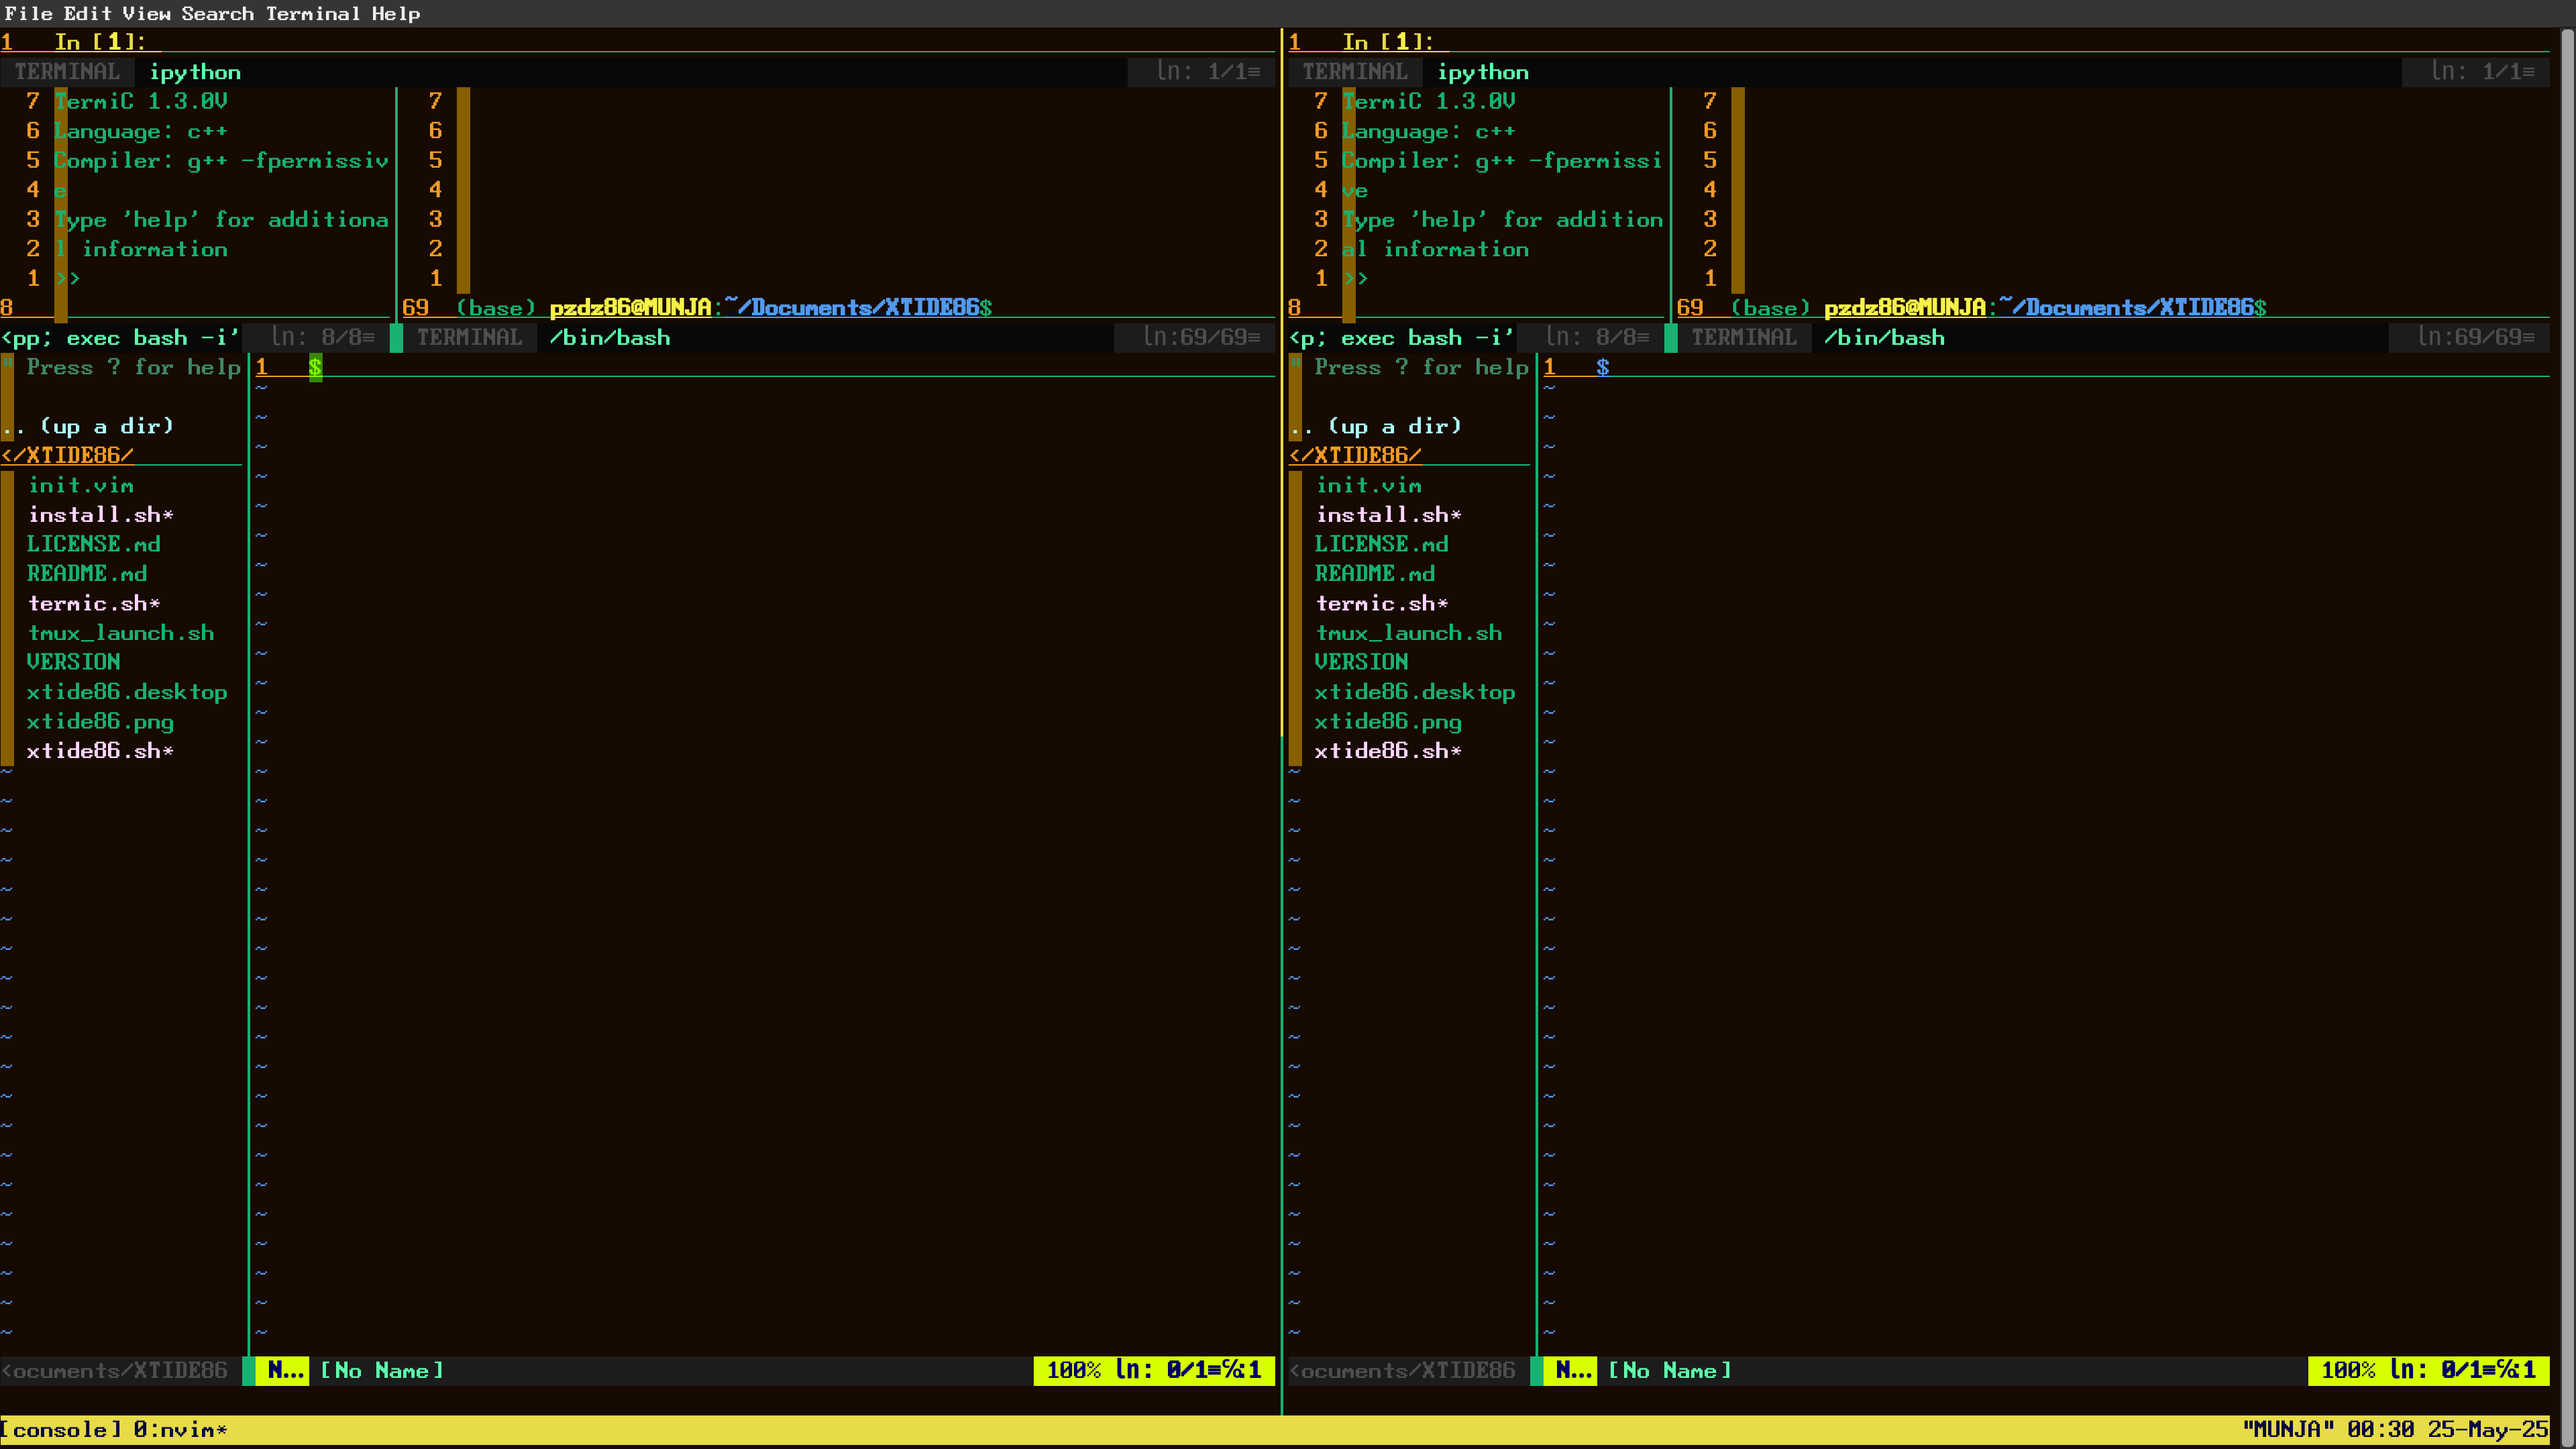
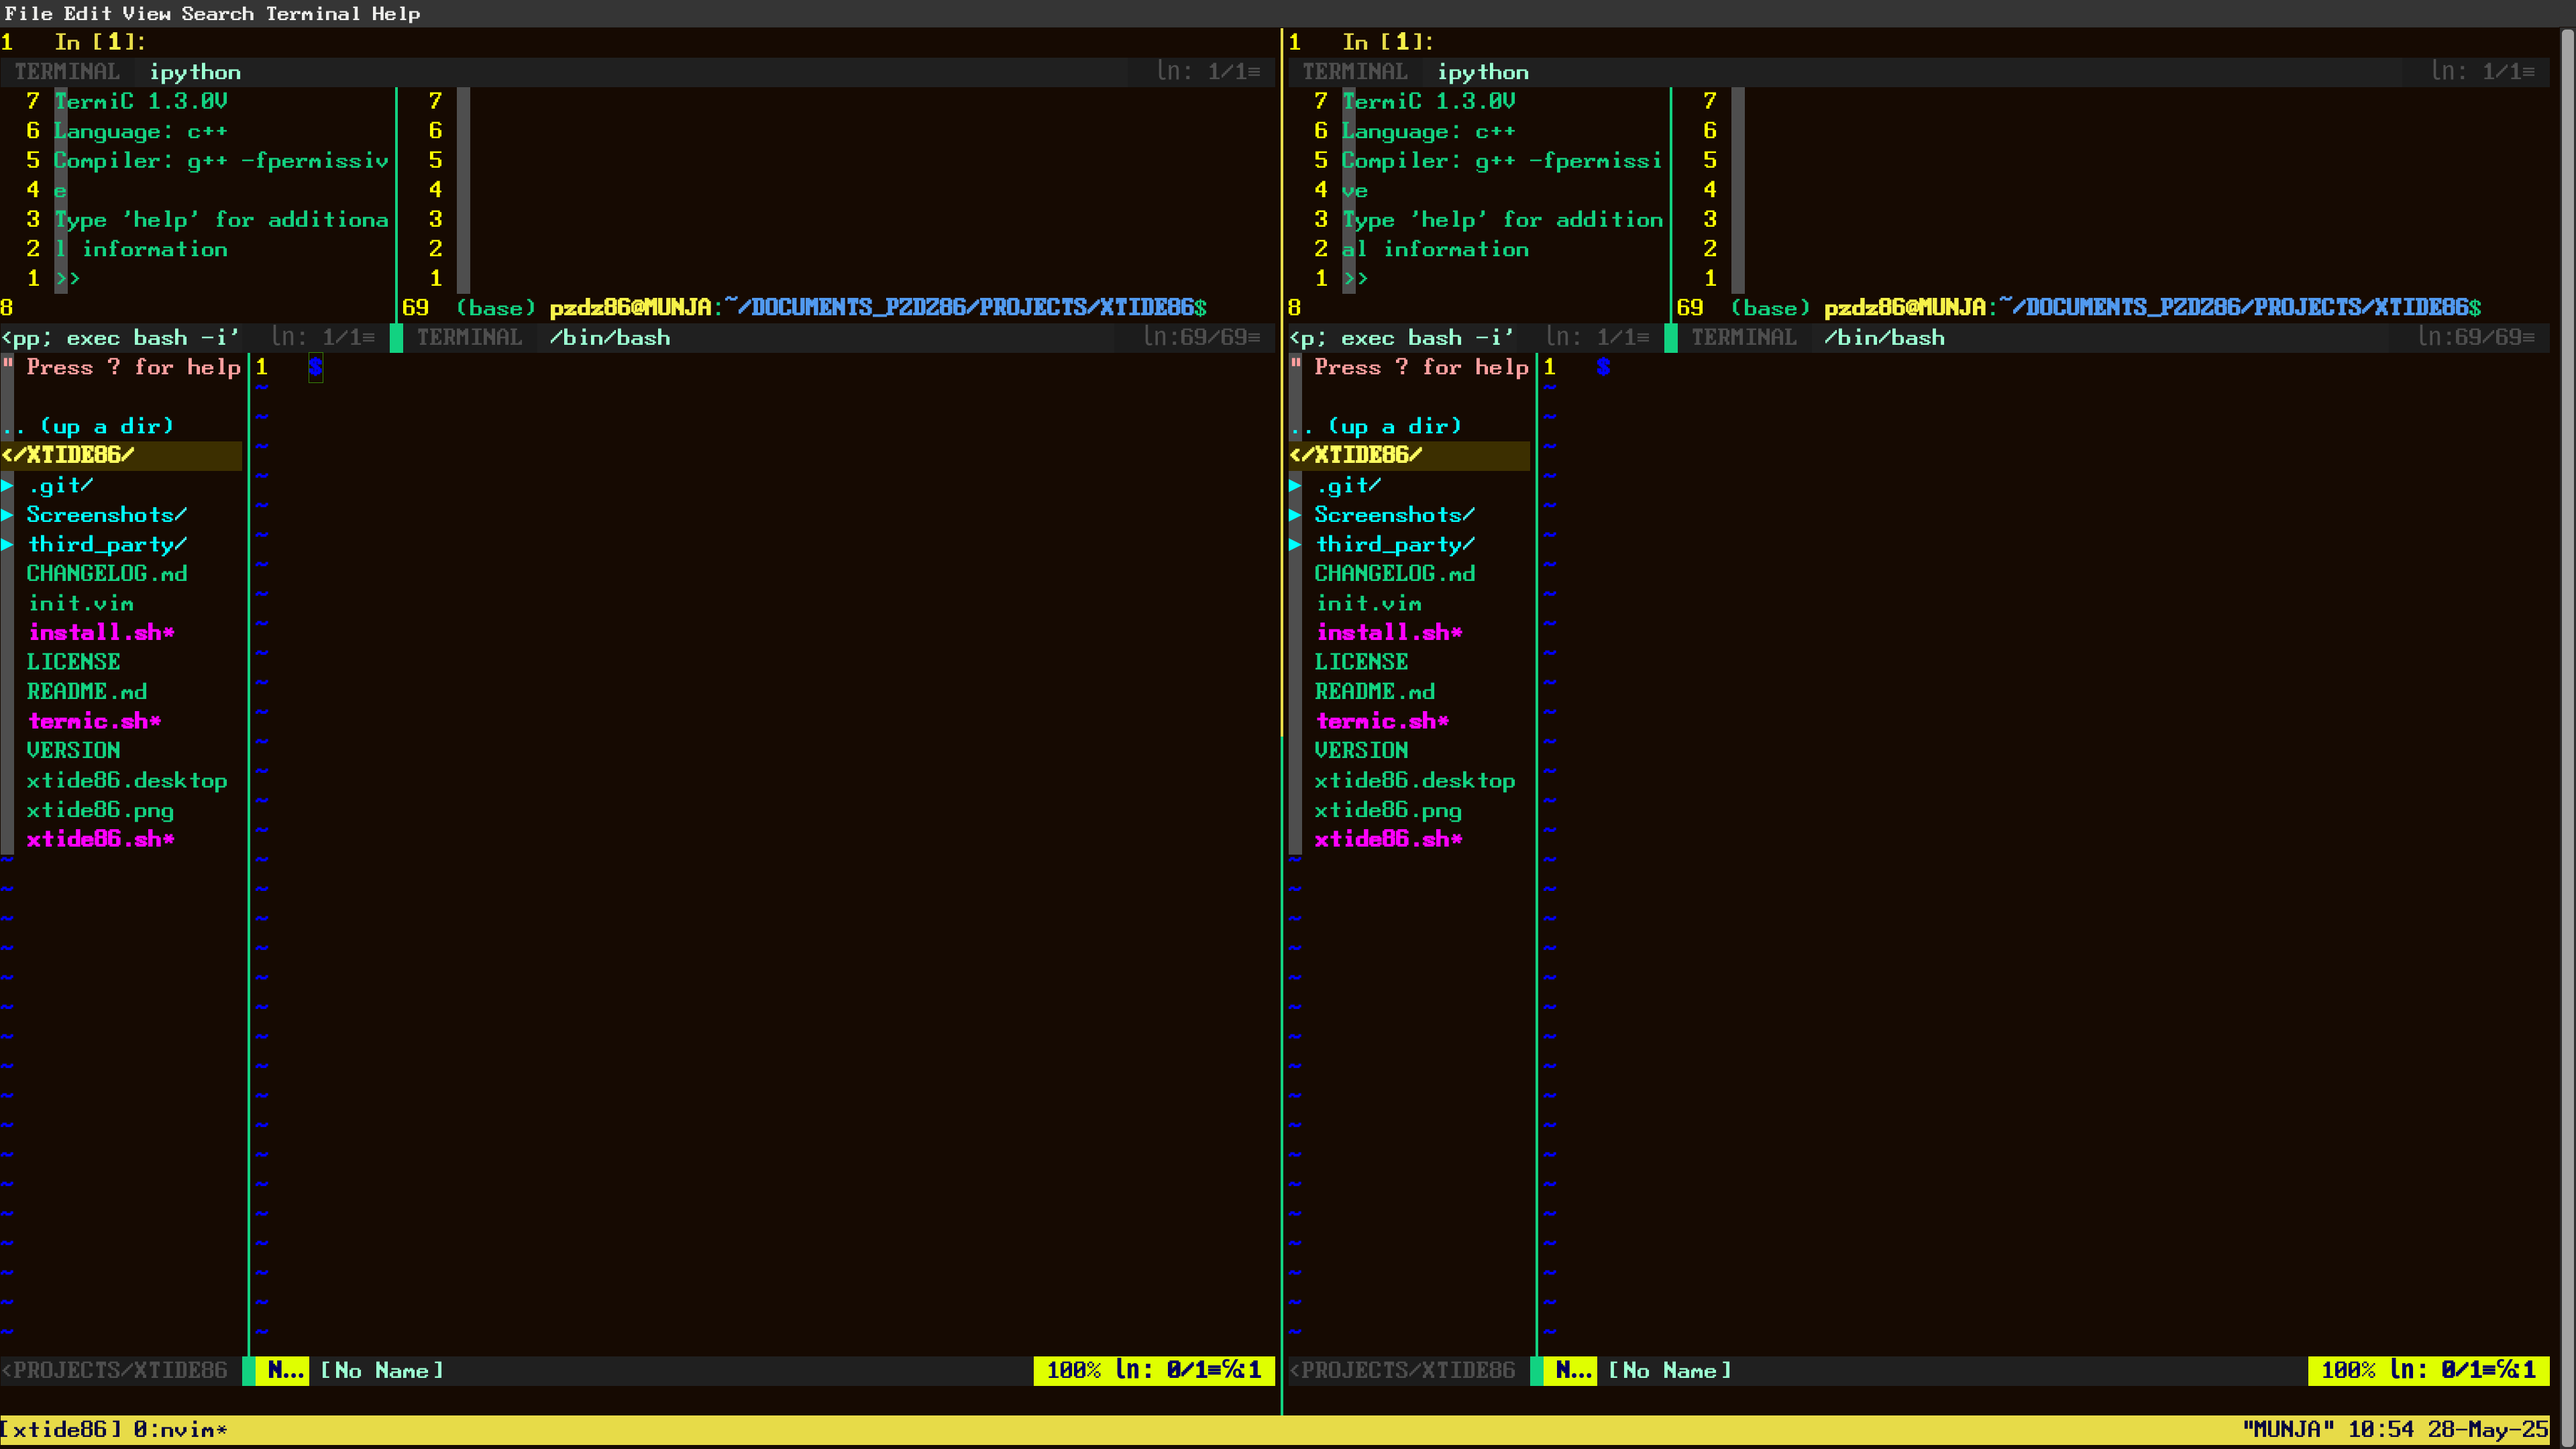
Update README, init.vim themes, and screenshots for 256-color support

diff --git a/README.md b/README.md
@@ -12,6 +12,12 @@ This script is licensed under GPLv3 and included with permission.
 
 # XTIDE86: XTra IDE 86 
 **Version:** `v1.1.0`
+>**New in v1.1.0:** XTide86 now fully supports 256-color terminals!
+> 
+> - Improved color rendering in all panes and status bars
+> - Toggle between classic **Portcullis** and modern **GRID** visual themes
+> - Screenshots updated to showcase enhanced visuals with tools like [`btop`](https://github.com/aristocratos/btop)or [`NPalette`](https://github.com/logicmagix/NPalette)
+
 
 <pre><code>
                                                     ███ ███ ███ ███                      
@@ -210,6 +216,11 @@ Pull requests, stars, and forks welcome
 ## Screenshots
 
 XTide86 looks like in action:
+
+### 	
+
+### XTide86 now supports 256 colors in tmux
+![256 Color](Screenshots/Screenshot0.png)
 
 ### Full Interface
 ![XTide86 Full Interface](Screenshots/Screenshot1.png)
